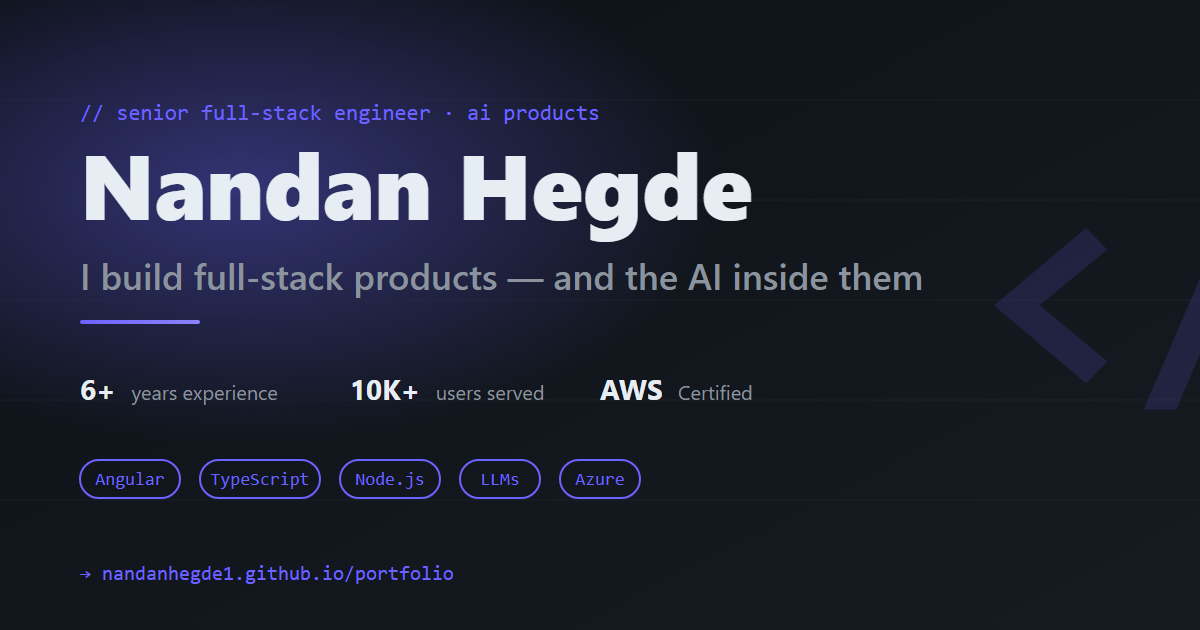
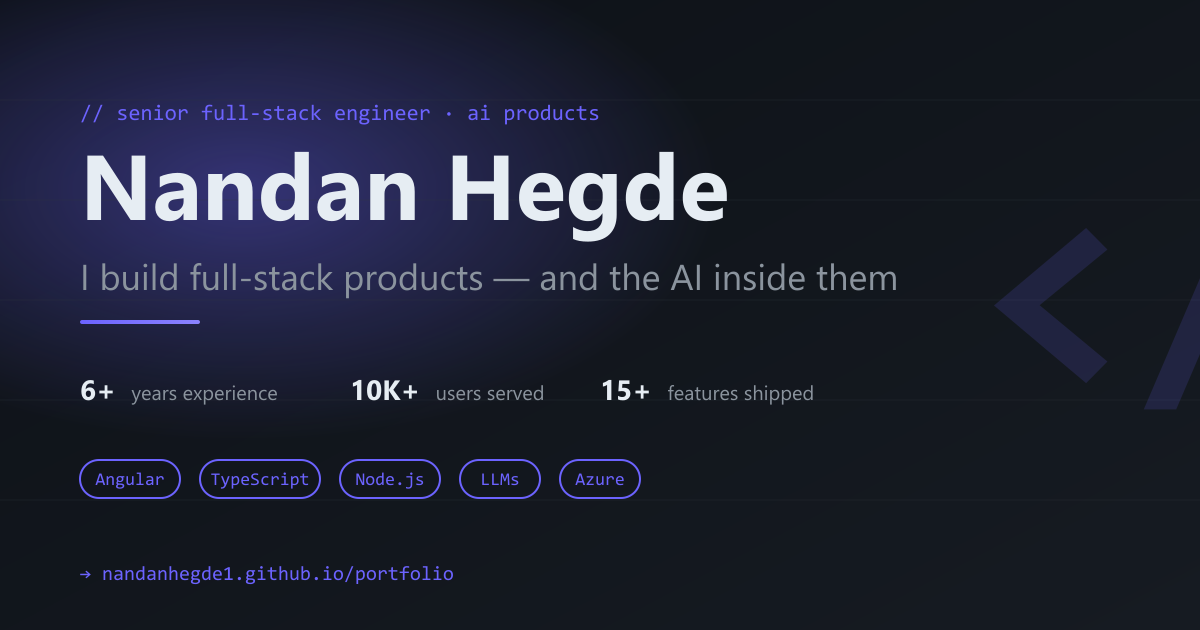
Take AWS Certified off the link preview image
The resume lists the AWS certification as 2021, expired, and the site stopped
calling it current in the last commit, but the Open Graph image every shared
link shows still said "AWS Certified". That slot now shows 15+ features
shipped, a figure the home page already uses. The cache-buster moves to v=3 so
link previews fetch the new image.

diff --git a/src/index.html b/src/index.html
@@ -28,7 +28,7 @@
   <meta property="og:title" content="Nandan Hegde | Senior Full-Stack Engineer (AI Products)">
   <meta property="og:description" content="I architect the AI and build the product — an AI voice-interview + fit-scoring system and a candidate-ranking engine on a 10,000-user platform. Angular, TypeScript, Node, LLMs (Azure OpenAI, Claude).">
   <meta property="og:url" content="https://nandanhegde1.github.io/portfolio/">
-  <meta property="og:image" content="https://nandanhegde1.github.io/portfolio/assets/og-image.png?v=2">
+  <meta property="og:image" content="https://nandanhegde1.github.io/portfolio/assets/og-image.png?v=3">
   <meta property="og:image:width" content="1200">
   <meta property="og:image:height" content="630">
   <meta property="og:image:alt" content="Nandan Hegde — Senior Full-Stack Engineer, AI Products">
@@ -39,7 +39,7 @@
   <meta name="twitter:card" content="summary_large_image">
   <meta name="twitter:title" content="Nandan Hegde | Senior Full-Stack Engineer (AI Products)">
   <meta name="twitter:description" content="I architect the AI and build the product — AI voice-interview + fit-scoring on a 10,000-user platform. Angular, TypeScript, LLMs.">
-  <meta name="twitter:image" content="https://nandanhegde1.github.io/portfolio/assets/og-image.png?v=2">
+  <meta name="twitter:image" content="https://nandanhegde1.github.io/portfolio/assets/og-image.png?v=3">
 
   <!-- Structured Data: Person -->
   <script type="application/ld+json">
@@ -49,7 +49,7 @@
     "name": "Nandan Hegde",
     "jobTitle": "Senior Full-Stack Engineer (AI Products)",
     "url": "https://nandanhegde1.github.io/portfolio/",
-    "image": "https://nandanhegde1.github.io/portfolio/assets/og-image.png?v=2",
+    "image": "https://nandanhegde1.github.io/portfolio/assets/og-image.png?v=3",
     "email": "mailto:nandanhegde1096@gmail.com",
     "worksFor": { "@type": "Organization", "name": "Thinkbridge Software Pvt Ltd" },
     "alumniOf": { "@type": "CollegeOrUniversity", "name": "Dayananda Sagar College of Engineering" },
